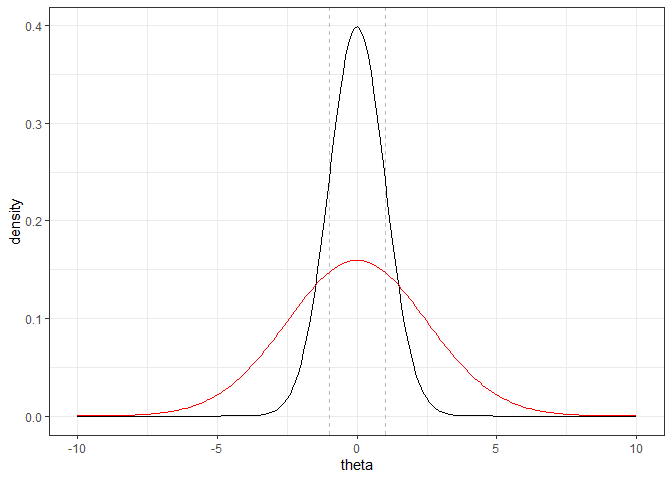
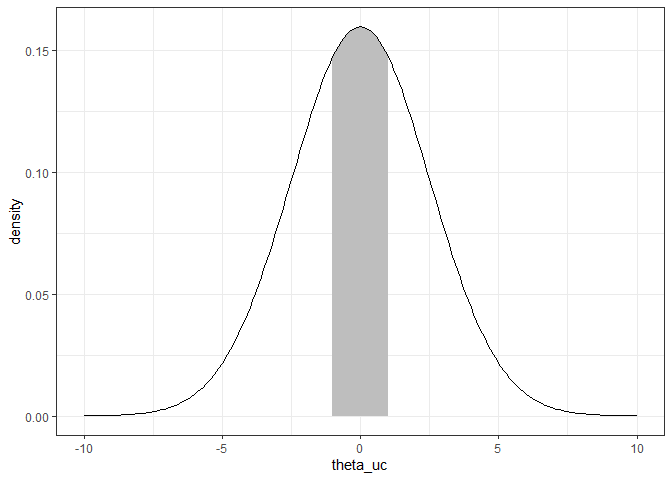
Update week 10 ants priors plot

diff --git a/10_9_ants_bayesian_GLM_priors.md b/10_9_ants_bayesian_GLM_priors.md
@@ -50,17 +50,22 @@ deviation. There is a corresponding `Adjusted prior`, which is the
 equivalent prior on the original scale.
 
 What does a Normal(0,2.5) prior look like? To visualize, we can compute
-it and compare to a “standard Normal”, which is Normal(0,1).
+it:
 
 ``` r
+# Calculate the curve for Normal(0,2.5)
 theta <- seq(-10, 10, 0.1)
-standardN <- dnorm(theta, mean=0, sd=1)
 prior2.5 <- dnorm(theta, mean=0, sd=2.5)
-data.frame(theta, standardN, prior2.5) |> 
+# Outline polygon for 1 sd area under the curve
+auc_1_sd <- c(prior2.5[abs(theta) <= 1], 0, 0)
+theta_uc <- c(theta[abs(theta) <= 1], 1, -1)
+auc_df <- data.frame(theta_uc, auc_1_sd)
+# Plot distribution and 1 sd under curve
+data.frame(theta, prior2.5) |>
     ggplot() +
-    geom_vline(xintercept=c(-1,1), col="gray", lty=2) +
-    geom_line(mapping=aes(x=theta, y=standardN)) +
-    geom_line(mapping=aes(x=theta, y=prior2.5), col="red") +
+    geom_polygon(data=auc_df, 
+                 mapping=aes(x=theta_uc, y=auc_1_sd), fill="grey") +
+    geom_line(mapping=aes(x=theta, y=prior2.5)) +
     ylab("density")
 ```
 
